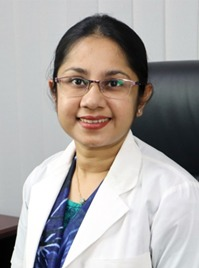
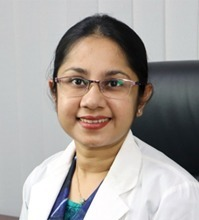
doctor image size

diff --git a/src/page/home/Doctors.jsx b/src/page/home/Doctors.jsx
@@ -89,7 +89,7 @@ export default function Doctors() {
               className="bg-white rounded-xl overflow-hidden shadow hover:shadow-lg transition-shadow duration-300"
             >
               <div className="relative">
-                <img src={emp.image} alt={emp.name} className="w-full h-[270px] " />
+                <img src={emp.image} alt={emp.name} className="w-full h-[300px] object-cover" />
                 <div className="absolute inset-0 bg-gradient-to-t from-black/20 to-transparent" />
               </div>
               <div className="p-4">
